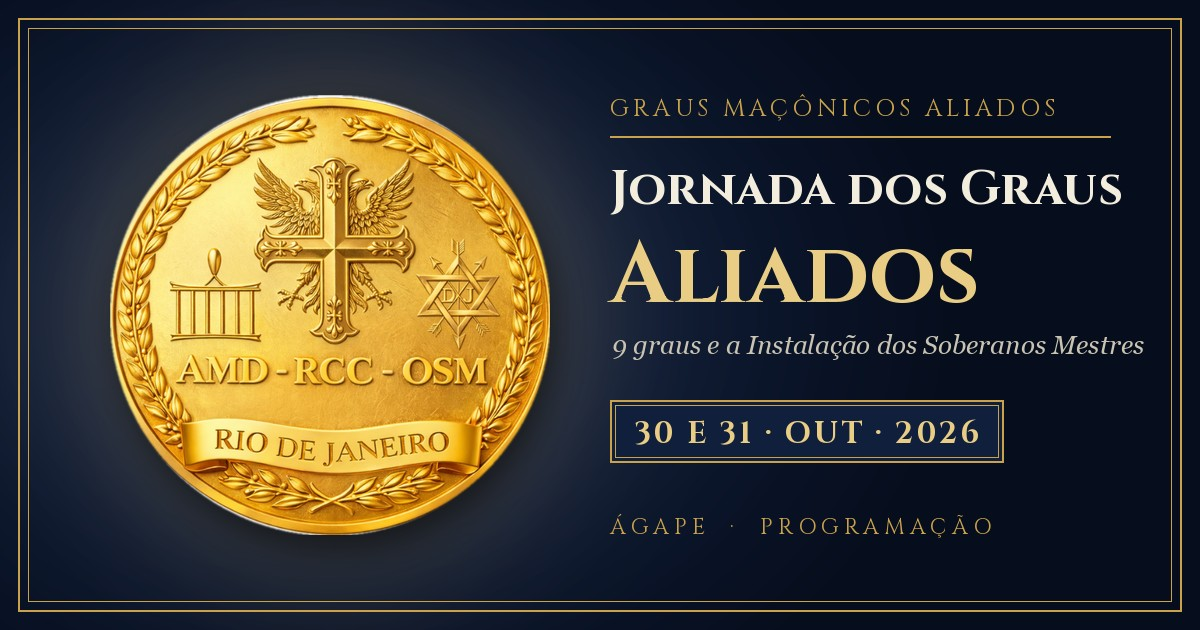
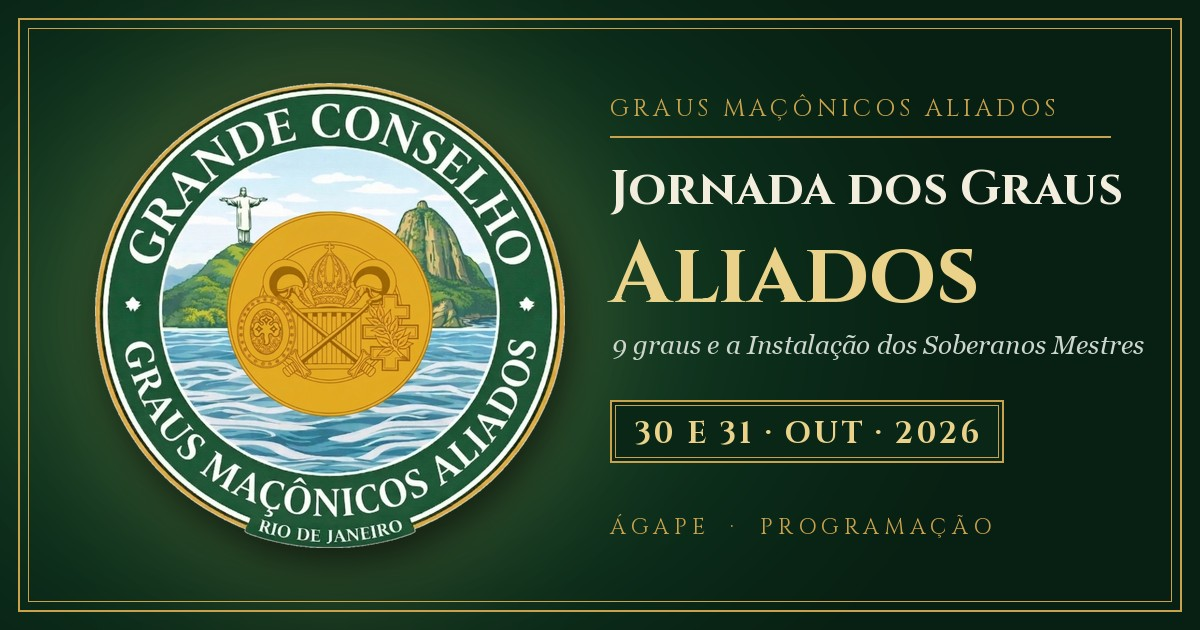
AMD: visual verde do Grande Conselho, Pix e WhatsApp do Ir. Luciano, observação dos graus anexos

diff --git a/styles.css b/styles.css
@@ -1,7 +1,7 @@
 /* ============================================================
    styles.css — IDENTIDADE VISUAL (AMD)
-   Marfim · marinho (#101f3c) · dourado (#c9a24b)
-   Paleta marinho e dourado do medalhão AMD · RCC · OSM.
+   Marfim · verde-floresta (#14532d) · verde-esmeralda (#1b4d3e) · dourado (#c9a24b)
+   Paleta verde e dourado do Grande Conselho AMD.
    Mobile-first · alvos de toque >= 44px · contraste AA
    ============================================================ */
 
@@ -12,17 +12,17 @@
   --paper: #ffffff;
 
   /* vinho do brasão (texto e blocos de peso) */
-  --navy-975: #060d1c;
-  --navy-950: #0a1428;
-  --navy-900: #101f3c;
-  --navy-800: #16294e;
-  --ink: #101f3c;
-  --ink-soft: #33415c;
-  --ink-faint: #4b586f;
+  --navy-975: #0a2616;
+  --navy-950: #0e331d;
+  --navy-900: #14532d;
+  --navy-800: #1b4d3e;
+  --ink: #16302a;
+  --ink-soft: #33493f;
+  --ink-faint: #4f6359;
 
   /* dourados do brasão */
   --gold: #c9a24b;
-  --gold-bright: #e9cd85;
+  --gold-bright: #ead28a;
   --gold-aged: #8a6828;
   --gold-aged-2: #9a7b2e;
   --gold-line: rgba(154, 123, 46, 0.42);
@@ -41,8 +41,8 @@
   --font-body: 'Source Serif 4', 'Source Serif Pro', Georgia, serif;
 
   --radius: 10px;
-  --shadow-card: 0 4px 6px rgba(20, 31, 60, 0.05), 0 1px 3px rgba(20, 31, 60, 0.08);
-  --shadow-lift: 0 10px 22px rgba(20, 31, 60, 0.10), 0 2px 6px rgba(20, 31, 60, 0.08);
+  --shadow-card: 0 4px 6px rgba(14, 51, 29, 0.05), 0 1px 3px rgba(14, 51, 29, 0.08);
+  --shadow-lift: 0 10px 22px rgba(14, 51, 29, 0.10), 0 2px 6px rgba(14, 51, 29, 0.08);
   --maxw: 44rem;
 }
 
@@ -90,7 +90,7 @@ svg { display: block; }
   background: linear-gradient(180deg, #faf3df, #f3e9cd);
   border-top: 1px solid var(--gold-line);
   border-bottom: 1px solid var(--gold-line);
-  box-shadow: 0 3px 8px rgba(20, 31, 60, 0.06);
+  box-shadow: 0 3px 8px rgba(14, 51, 29, 0.06);
 }
 .notice-inner {
   max-width: var(--maxw); margin: 0 auto; padding: 0.7rem 1rem;
@@ -254,7 +254,7 @@ svg { display: block; }
   letter-spacing: 0.24em; text-indent: 0.24em; text-transform: uppercase;
   color: var(--gold-aged); opacity: 0.9;
 }
-.medallion { filter: drop-shadow(0 6px 14px rgba(20, 31, 60, 0.22)); }
+.medallion { filter: drop-shadow(0 6px 14px rgba(14, 51, 29, 0.22)); }
 
 /* telas muito estreitas: empilha o cabeçalho (padrão é lado a lado) */
 @media (max-width: 349px) {
@@ -452,7 +452,7 @@ main::before {
   display: flex; gap: 0;
   background: var(--ivory-2);
   border-radius: 999px; padding: 3px;
-  box-shadow: inset 0 1px 2px rgba(20, 31, 60, 0.06);
+  box-shadow: inset 0 1px 2px rgba(14, 51, 29, 0.06);
   overflow: hidden; width: fit-content;
 }
 .view-btn {
@@ -642,7 +642,7 @@ main::before {
 }
 .session.is-live .session-card {
   background: #fffdf3;
-  box-shadow: 0 6px 16px rgba(154, 123, 46, 0.18), 0 1px 3px rgba(20, 31, 60, 0.08);
+  box-shadow: 0 6px 16px rgba(154, 123, 46, 0.18), 0 1px 3px rgba(14, 51, 29, 0.08);
 }
 .session.is-past .session-card { opacity: 0.68; }
 @media (hover: hover) {

diff --git a/index.html b/index.html
@@ -5,7 +5,7 @@
   <meta name="viewport" content="width=device-width, initial-scale=1, viewport-fit=cover">
   <title>Ágape — Jornada dos Graus Maçônicos Aliados · AMD 2026</title>
   <meta name="description" content="Alimentação da Jornada dos Graus Maçônicos Aliados (AMD), 30 e 31 de outubro de 2026, ou dos três eventos AMD, OSM e RCC. Pagamento por Pix.">
-  <meta name="theme-color" content="#101f3c">
+  <meta name="theme-color" content="#14532d">
 
   <!-- PWA -->
   <link rel="manifest" href="manifest.json">
@@ -26,12 +26,12 @@
   <meta property="og:description" content="30 e 31 de outubro de 2026 · Garanta aqui o seu ágape · pagamento por Pix">
   <meta property="og:type" content="website">
   <meta property="og:url" content="https://viaveritasvita.github.io/amdjornada26/">
-  <meta property="og:image" content="https://viaveritasvita.github.io/amdjornada26/assets/og-cover.jpg?v=1">
+  <meta property="og:image" content="https://viaveritasvita.github.io/amdjornada26/assets/og-cover.jpg?v=2">
   <meta property="og:image:width" content="1200">
   <meta property="og:image:height" content="630">
   <meta property="og:image:type" content="image/jpeg">
   <meta name="twitter:card" content="summary_large_image">
-  <meta name="twitter:image" content="https://viaveritasvita.github.io/amdjornada26/assets/og-cover.jpg?v=1">
+  <meta name="twitter:image" content="https://viaveritasvita.github.io/amdjornada26/assets/og-cover.jpg?v=2">
 </head>
 <body class="pg-refeicoes">
 
@@ -44,7 +44,7 @@
   <header class="masthead">
     <div class="masthead-row">
       <div class="medallion-wrap">
-        <img class="medallion" src="assets/medalhao.png" width="200" height="200" alt="Medalhão AMD · RCC · OSM">
+        <img class="medallion" src="assets/logo-amd.png" width="200" height="200" alt="Grande Conselho dos Graus Maçônicos Aliados">
       </div>
       <div class="masthead-titles">
         <div class="masthead-sigla"><span>AMD</span></div>
@@ -233,7 +233,7 @@
   <div id="toast" class="toast" role="status" aria-live="polite"></div>
 
   <noscript>
-    <p style="text-align:center;padding:1rem;color:#101f3c">Esta página precisa de JavaScript.</p>
+    <p style="text-align:center;padding:1rem;color:#14532d">Esta página precisa de JavaScript.</p>
   </noscript>
 
   <script src="refeicoes-config.js"></script>

diff --git a/programacao.html b/programacao.html
@@ -26,14 +26,14 @@
   <meta property="og:description" content="30 e 31 de outubro de 2026 · Programação">
   <meta property="og:type" content="website">
   <meta property="og:url" content="https://viaveritasvita.github.io/amdjornada26/programacao.html">
-  <meta property="og:image" content="https://viaveritasvita.github.io/amdjornada26/assets/og-cover.jpg?v=1">
+  <meta property="og:image" content="https://viaveritasvita.github.io/amdjornada26/assets/og-cover.jpg?v=2">
   <meta property="og:image:width" content="1200">
   <meta property="og:image:height" content="630">
   <meta property="og:image:type" content="image/jpeg">
   <meta name="twitter:card" content="summary_large_image">
   <meta name="twitter:title" content="Jornada dos Graus Maçônicos Aliados — AMD">
   <meta name="twitter:description" content="30 e 31 de outubro de 2026">
-  <meta name="twitter:image" content="https://viaveritasvita.github.io/amdjornada26/assets/og-cover.jpg?v=1">
+  <meta name="twitter:image" content="https://viaveritasvita.github.io/amdjornada26/assets/og-cover.jpg?v=2">
 </head>
 <body>
 
@@ -50,10 +50,10 @@
     <nav id="langSwitch" class="lang-switch" hidden></nav>
 
     <div class="masthead-row">
-      <!-- MEDALHÃO AMD · RCC · OSM (assets/medalhao.png) -->
+      <!-- MEDALHÃO AMD · RCC · OSM (assets/logo-amd.png) -->
       <div class="medallion-wrap">
-        <img class="medallion" src="assets/medalhao.png" width="200" height="200"
-          alt="Medalhão AMD · RCC · OSM">
+        <img class="medallion" src="assets/logo-amd.png" width="200" height="200"
+          alt="Grande Conselho dos Graus Maçônicos Aliados">
       </div>
 
       <div class="masthead-titles">

diff --git a/data.js b/data.js
@@ -36,10 +36,10 @@ const LOCATIONS = {};
 /* ---------- CORPOS / GRAUS ----------
    "geral" (sem selo) e "log" (logística) são reservados pelo motor. */
 const BODIES = {
-  amd:        { label: 'Graus Maçônicos Aliados', color: '#8a6828' },
-  instalacao: { label: 'Cerimônia complementar', color: '#16294e' },
-  geral:      { label: '', color: '#566072' },
-  log:        { label: '', color: '#64748b' },
+  amd:        { label: 'Graus Maçônicos Aliados', color: '#1b4d3e' },
+  instalacao: { label: 'Cerimônia complementar', color: '#8a6828' },
+  geral:      { label: '', color: '#55695f' },
+  log:        { label: '', color: '#6b7a72' },
 };
 
 const SCHEDULE = [
@@ -75,7 +75,7 @@ const SCHEDULE = [
         t: { pt: 'Santa Ordem Sacerdotal de Grande Sumo Sacerdote' } },
       { id: 's31-8', start: '17:35', end: '19:35', body: 'instalacao',
         t: { pt: 'Instalação dos 10 Soberanos Mestres' },
-        note: { pt: 'Ao todo, 9 graus e 1 cerimônia de instalação.\nNão estão incluídos nesta Jornada:\n- Antiga Ordem das Rolhas\n- Antigo Monitor de Jonas\n- Ordem de São Patrício\n- Ordem Real do Ramo Vermelho d\'Eri' } },
+        note: { pt: 'Ao todo, 9 graus e 1 cerimônia de instalação.\nNão estão incluídos nesta Jornada, pois são ordens e graus anexos conferidos somente na Anual:\n- Antiga Ordem das Rolhas\n- Antigo Monitor de Jonas\n- Ordem de São Patrício\n- Ordem Real do Ramo Vermelho d\'Eri' } },
     ],
   },
 ];

diff --git a/painel.html b/painel.html
@@ -5,13 +5,13 @@
 <meta name="viewport" content="width=device-width, initial-scale=1">
 <meta name="robots" content="noindex, nofollow">
 <title>Painel do Ágape — Jornada AMD 2026</title>
-<meta name="theme-color" content="#101f3c">
+<meta name="theme-color" content="#14532d">
 <link rel="icon" type="image/png" sizes="48x48" href="assets/favicon-48.png">
 <link href="https://fonts.googleapis.com/css2?family=Cinzel:wght@600;700&family=Source+Serif+4:wght@400;600&display=swap" rel="stylesheet">
 <style>
 :root{
-  --vinho:#101f3c; --vinho-2:#0a1428; --ouro:#c9a24b; --ouro-claro:#e6cd94; --ouro-velho:#8a6828;
-  --tinta:#101f3c; --suave:#4b586f; --marfim:#faf6ef; --marfim-2:#f2e9da; --linha:rgba(154,123,46,.35);
+  --vinho:#14532d; --vinho-2:#0e331d; --ouro:#c9a24b; --ouro-claro:#e6cd94; --ouro-velho:#8a6828;
+  --tinta:#16302a; --suave:#4f6359; --marfim:#faf6ef; --marfim-2:#f2e9da; --linha:rgba(154,123,46,.35);
   --verde:#1a5c2a; --verde-bg:#e3f1e6; --ambar:#8a5c12; --ambar-bg:#fdf3d8; --verm:#8e2525; --verm-bg:#f7e0e0;
 }
 *{box-sizing:border-box}

diff --git a/refeicoes-config.js b/refeicoes-config.js
@@ -16,17 +16,17 @@ const REFEICOES_CONFIG = {
      cidade: só vai dentro do código Pix (não aparece na página). */
   pix: {
     chave: 'f5f765c7-b4d4-45db-893b-1e6382298539', // chave aleatória
-    nome: 'COLE_AQUI_O_NOME_DO_TITULAR',
+    nome: 'LUCIANO DE OLIVEIRA NUNES',
     cidade: 'RIO DE JANEIRO',
-    banco: '',
-    titular: '',   // como aparece na página (ex.: 'Ir. Fulano de Tal · Tesoureiro')
+    banco: 'Nubank',
+    titular: 'Ir. Luciano de Oliveira Nunes',
   },
 
   /* WhatsApp de quem recebe os comprovantes (55 + DDD + número, só dígitos).
      Vazio = os botões de WhatsApp somem. */
   tesoureiro: {
-    nome: 'Irmão',
-    whatsapp: '',
+    nome: 'Ir. Luciano',
+    whatsapp: '556599819296',
   },
 
   /* Opções de alimentação (uma por pedido). */

diff --git a/sw.js b/sw.js
@@ -20,7 +20,7 @@ try {
   /* sem rede na instalação: apenas offline, sem push */
 }
 
-const CACHE = 'amdjornada26-v1';
+const CACHE = 'amdjornada26-v2';
 
 const APP_SHELL = [
   './',
@@ -44,7 +44,7 @@ const APP_SHELL = [
   './assets/app-icon-maskable-512.png',
   './assets/apple-touch-icon.png',
   './assets/favicon-48.png',
-  './assets/medalhao.png',
+  './assets/logo-amd.png',
   /* brasão oficial (PNG) + fallback SVG */
   /* artes de fundo (nenhuma neste projeto) */
   'https://fonts.googleapis.com/css2?family=Cinzel:wght@600;700&family=Source+Serif+4:ital,opsz,wght@0,8..60,400;0,8..60,500;0,8..60,600;1,8..60,500&display=swap',
